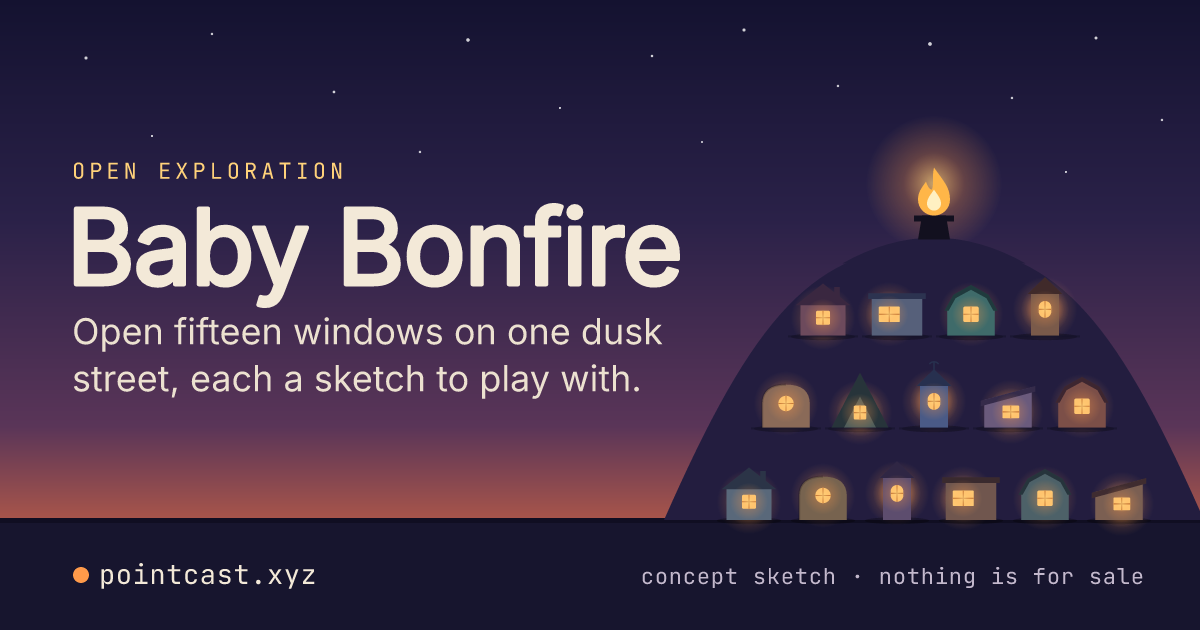
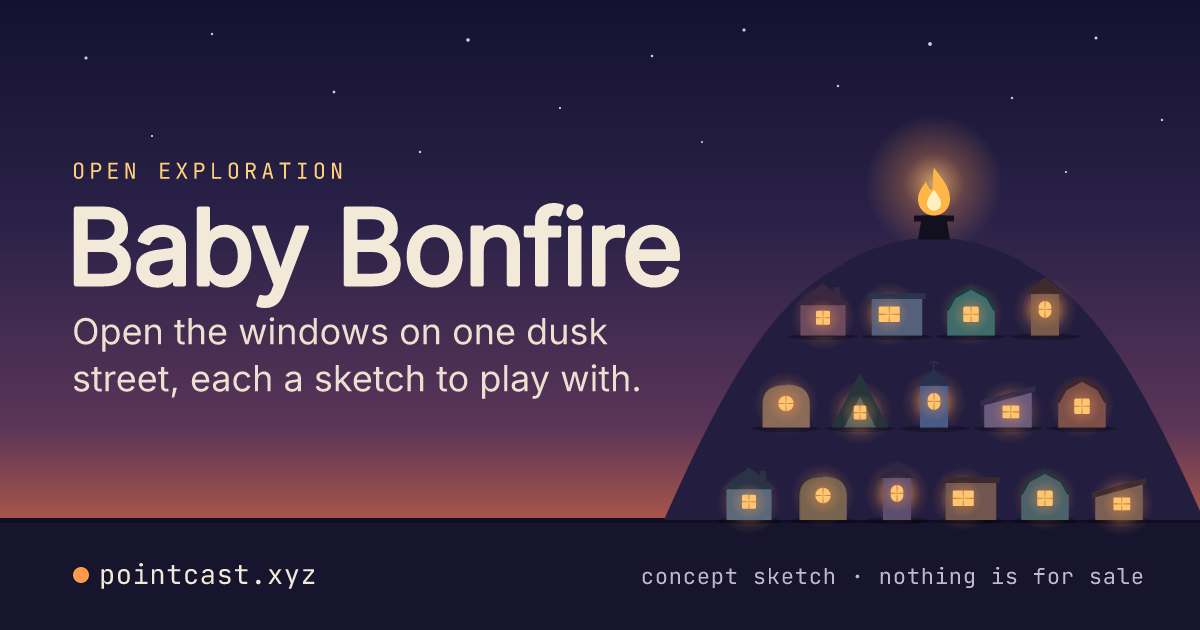
Unfurl cards: let the Baby Bonfire street grow
Another open branch (#1639) adds six scenes to the street. So that the two
can merge in either order:

- The hub card names no count, in its line, its description or its alt
  text, and draws however many houses the street has (4, 5, then rows of
  six; a street of 21 was tried against that branch's hub and looks right).
- The drawing no longer insists on fifteen houses.
- A scene on the street without a row in SCENES is reported by the build
  and by --check, not failed. It keeps the request-time card until then.
- The test pins the fifteen scenes that have cards, not the street's length.
- The TASKS.md section moves below the second-pass section, away from the
  top of the file where the other open branches add theirs.

Block 0782 still conflicts with #1639 on its three count lines; that branch
says twenty-one, which is right once it lands.

Claude-Session: https://claude.ai/code/session_01X6PVCMnPp2hqaEo8rhP7jD

Changed region(s): [[0.1233, 0.4825, 0.555, 0.573]]

diff --git a/public/baby-bonfire/index.html b/public/baby-bonfire/index.html
@@ -9,19 +9,19 @@
 <link rel="canonical" href="https://pointcast.xyz/baby-bonfire/">
 <link rel="alternate" type="application/json" href="/baby-bonfire.json" title="Baby Bonfire, machine-readable">
 <meta property="og:title" content="Baby Bonfire">
-<meta property="og:description" content="Small home objects that bring fire, water, air, earth, light, weather and sound indoors without a screen. Fifteen concept sketches. Nothing is for sale.">
+<meta property="og:description" content="Small home objects that bring fire, water, air, earth, light, weather and sound indoors without a screen. Concept sketches. Nothing is for sale.">
 <meta property="og:url" content="https://pointcast.xyz/baby-bonfire/">
 <meta property="og:type" content="website">
-<meta property="og:image" content="https://pointcast.xyz/baby-bonfire/card.png?v=53b2f51c3d">
+<meta property="og:image" content="https://pointcast.xyz/baby-bonfire/card.png?v=c78430d251">
 <meta property="og:image:type" content="image/png">
 <meta property="og:image:width" content="1200">
 <meta property="og:image:height" content="630">
-<meta property="og:image:alt" content="Baby Bonfire. A drawing of fifteen small houses on a hillside street at dusk, every window lit, and a beacon burning on the hilltop.">
+<meta property="og:image:alt" content="Baby Bonfire. A drawing of small houses on a hillside street at dusk, every window lit, and a beacon burning on the hilltop.">
 <meta name="twitter:card" content="summary_large_image">
 <meta name="twitter:title" content="Baby Bonfire">
-<meta name="twitter:description" content="Small home objects that bring fire, water, air, earth, light, weather and sound indoors without a screen. Fifteen concept sketches. Nothing is for sale.">
-<meta name="twitter:image" content="https://pointcast.xyz/baby-bonfire/card.png?v=53b2f51c3d">
-<meta name="twitter:image:alt" content="Baby Bonfire. A drawing of fifteen small houses on a hillside street at dusk, every window lit, and a beacon burning on the hilltop.">
+<meta name="twitter:description" content="Small home objects that bring fire, water, air, earth, light, weather and sound indoors without a screen. Concept sketches. Nothing is for sale.">
+<meta name="twitter:image" content="https://pointcast.xyz/baby-bonfire/card.png?v=c78430d251">
+<meta name="twitter:image:alt" content="Baby Bonfire. A drawing of small houses on a hillside street at dusk, every window lit, and a beacon burning on the hilltop.">
 <meta name="theme-color" content="#17152e">
 <style>
 :root{--night:#17152e;--dusk:#3a2a52;--ember:#ff9a4a;--glow:#ffd27a;--paper:#f3e9d8;--dim:#b9aec4;--line:rgba(243,233,216,.22);

diff --git a/TASKS.md b/TASKS.md
@@ -4,18 +4,6 @@
 
 ---
 
-## Unfurl cards for Baby Bonfire, Coast Commons and House Channel (2026-11-11)
-
-Mike on 2026-11-11, as passed on in the brief for this branch: "these unfurls can be so much better". The three areas went out with the generic request-time card and no Twitter tags. Each page listed below now has its own static 1200x630 `card.png` beside it and the tags that point at it. `node scripts/unfurl-cards/build.mjs` (`npm run og:area-cards`) draws the cards and writes the tags; `--check` says when they are out of step.
-
-- [x] (CC) One card system in three palettes, 23 cards: the Baby Bonfire hub and all fifteen scenes; the Coast Commons hub, El Segundo, the pattern and the two studies; the House Channel TV page and its about page — `done`
-- [x] (CC) Tags on those 23 pages: og:image with type, width, height and alt, and the Twitter card, title, description and image. Coast Commons pages get them through their own generators. og:description was shortened to fit 160 characters on seven pages and og:title on the Coast Commons hub; `<title>` and the meta descriptions are untouched — `done`
-- [x] (CC) Block 0782 says fifteen in its dek, body and companion label, count wording only, at the brief's direction. That is the change the second-pass section below left with Mike; merging this answers it — `done`
-- [x] (CC) `tests/unfurl-cards.test.mjs`; the area tests, `npm run audit:agents` and `node scripts/atlas/build.mjs --check` pass — `done`
-- [ ] (M) After deploy: paste the pages into iMessage, X and Slack and screenshot the previews, per the Manus section of the pull request for `claude/unfurl-cards`; results to `docs/manus-logs/2026-11-11-unfurl-cards.md` — `queued`
-- [ ] (MH) Decide: the four Baby Bonfire workshop pages and the fourteen other Coast Commons town pages still wear the generated card. Say if they should have cards of their own — `waiting-on-mh`
-- [ ] (MH) Merge and deploy with `scripts/deploy.sh` — `waiting-on-mh`
-
 ## Baby Bonfire: an open exploration (2026-11-11)
 
 `/baby-bonfire/`, `/baby-bonfire.json`, Block 0782 (0781 is held by #1618). Mike in chat on 2026-11-11: publish it on PointCast as an open-source exploration, with trade between makers and networked objects each owner can switch on or off. Concept sketches; nothing is for sale; no licence chosen.
@@ -65,6 +53,19 @@ Mike on 2026-11-11, as passed on in the brief for this branch: "these unfurls ca
 - [ ] (X) Review the Roaming Shelf wording (presence only, no cameras or microphones, no flame) and the precedents lines against their blocks — `queued`
 - [ ] (M) After deploy: real-device QA per `docs/briefs/2026-11-11-manus-baby-bonfire-pass-2.md`, touch drag on iOS Safari first; results to `docs/manus-logs/2026-11-11-baby-bonfire-pass-2.md` — `queued`
 - [ ] (MH) Decide: whether Block 0782 should be edited to say fifteen; whether "a hat on its hook means out today" reads the way you meant it — `waiting-on-mh`
+- [ ] (MH) Merge and deploy with `scripts/deploy.sh` — `waiting-on-mh`
+
+## Unfurl cards for Baby Bonfire, Coast Commons and House Channel (2026-11-11)
+
+Mike on 2026-11-11, as passed on in the brief for this branch: "these unfurls can be so much better". The three areas went out with the generic request-time card and no Twitter tags. Each page listed below now has its own static 1200x630 `card.png` beside it and the tags that point at it. `node scripts/unfurl-cards/build.mjs` (`npm run og:area-cards`) draws the cards and writes the tags; `--check` says when they are out of step.
+
+- [x] (CC) One card system in three palettes, 23 cards: the Baby Bonfire hub and the fifteen scenes on the street today; the Coast Commons hub, El Segundo, the pattern and the two studies; the House Channel TV page and its about page — `done`
+- [x] (CC) Tags on those 23 pages: og:image with type, width, height and alt, and the Twitter card, title, description and image. Coast Commons pages get them through their own generators. og:description was shortened to fit 160 characters on seven pages and og:title on the Coast Commons hub; `<title>` and the meta descriptions are untouched — `done`
+- [x] (CC) Block 0782 says fifteen in its dek, body and companion label, count wording only, at the brief's direction. That is the change the second-pass section above left with Mike; merging this answers it — `done`
+- [x] (CC) `tests/unfurl-cards.test.mjs`; the area tests, `npm run audit:agents` and `node scripts/atlas/build.mjs --check` pass — `done`
+- [ ] (CC) When the third pass (#1639) lands: give its six scenes a row each in `SCENES` in `scripts/unfurl-cards/cards.mjs`, run the build and look at the cards; `--check` lists the scenes still waiting. The hub card names no count and redraws for a longer street by itself. Block 0782 will conflict on its three count lines; take the larger count — `queued`
+- [ ] (M) After deploy: paste the pages into iMessage, X and Slack and screenshot the previews, per the Manus section of the pull request for `claude/unfurl-cards`; results to `docs/manus-logs/2026-11-11-unfurl-cards.md` — `queued`
+- [ ] (MH) Decide: the four Baby Bonfire workshop pages and the fourteen other Coast Commons town pages still wear the generated card. Say if they should have cards of their own — `waiting-on-mh`
 - [ ] (MH) Merge and deploy with `scripts/deploy.sh` — `waiting-on-mh`
 
 ## Light Companion v0 (2026-11-11)
